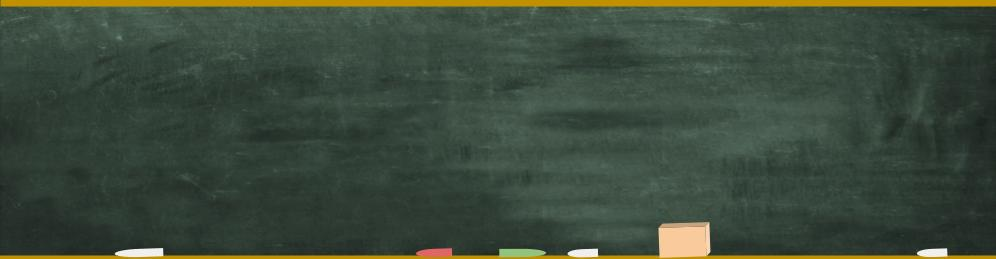
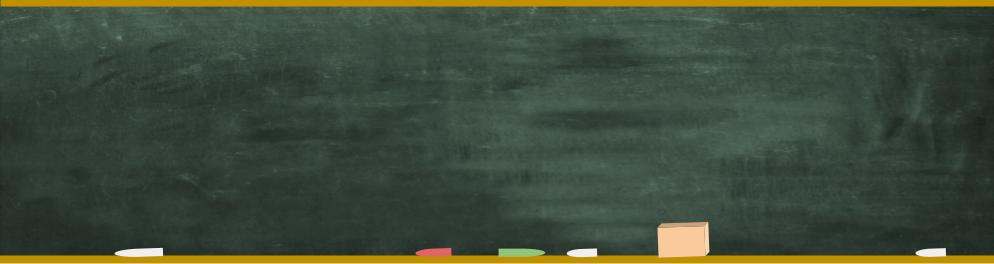
Update the design

Changed region(s): [[0.0, 0.9266, 1.0, 1.0], [0.6549, 0.834, 0.7173, 0.8958]]

diff --git a/assets/css/sage.css b/assets/css/sage.css
@@ -164,8 +164,11 @@ img {
 .hero-blackboard {
     width: 100%;
     height: 320px; /* Fixed height to ensure consistent layout. */
-    background: url('/assets/images/blackboard.jpg') no-repeat center center;
-    background-size: cover; /* Ensures the background image covers the whole area. */
+    background-image: url('/assets/images/blackboard.jpg');
+    background-repeat: no-repeat;
+    background-position: center center;
+    background-size: 100% auto; /* Keeps image ratio when hero height is reduced. */
+    background-color: #0f1412; /* Fill color for any uncovered area on extreme aspect ratios. */
     display: flex;
     justify-content: flex-start;
     align-items: flex-start;
@@ -1493,9 +1496,10 @@ html[data-bs-theme="dark"] .sidebar-content #home-link i {
 .exotic-buttons {
     display: grid;
     grid-template-columns: repeat(3, minmax(0, 1fr));
-    gap: 0.35rem;
+    gap: 0.25rem;
     align-items: stretch;
     width: 100%;
+    padding: 0;
     margin-left: auto;
     margin-right: auto;
 }
@@ -1505,11 +1509,11 @@ html[data-bs-theme="dark"] .sidebar-content #home-link i {
     display: inline-flex;
     align-items: center;
     justify-content: center;
-    gap: 0.5rem;
+    gap: 0.38rem;
     width: 100%;
     min-width: 0;
-    min-height: 38px;
-    padding: 0.36rem 0.5rem;
+    min-height: 34px;
+    padding: 0.24rem 0.45rem;
     border-top: 1px solid #708b80;
     border-bottom: 1px solid #708b80;
     border-left: 0;
@@ -1518,12 +1522,17 @@ html[data-bs-theme="dark"] .sidebar-content #home-link i {
     color: #f2f2f2;
     background: linear-gradient(120deg, #101d18 0%, #173326 58%, #1d1d1d 100%);
     font-family: "Share Tech Mono", monospace;
-    font-size: 0.78rem;
-    letter-spacing: 0.08em;
+    font-size: 0.73rem;
+    letter-spacing: 0.06em;
+    line-height: 1.1;
     text-transform: uppercase;
     text-decoration: none;
     box-shadow: inset 0 1px 0 rgba(255, 255, 255, 0.06), inset 0 -1px 0 rgba(0, 0, 0, 0.35);
     transition: border-color 0.22s ease, color 0.22s ease, background-color 0.22s ease;
+}
+
+.exotic-button i {
+    font-size: 0.86rem;
 }
 
 .exotic-button + .exotic-button {
